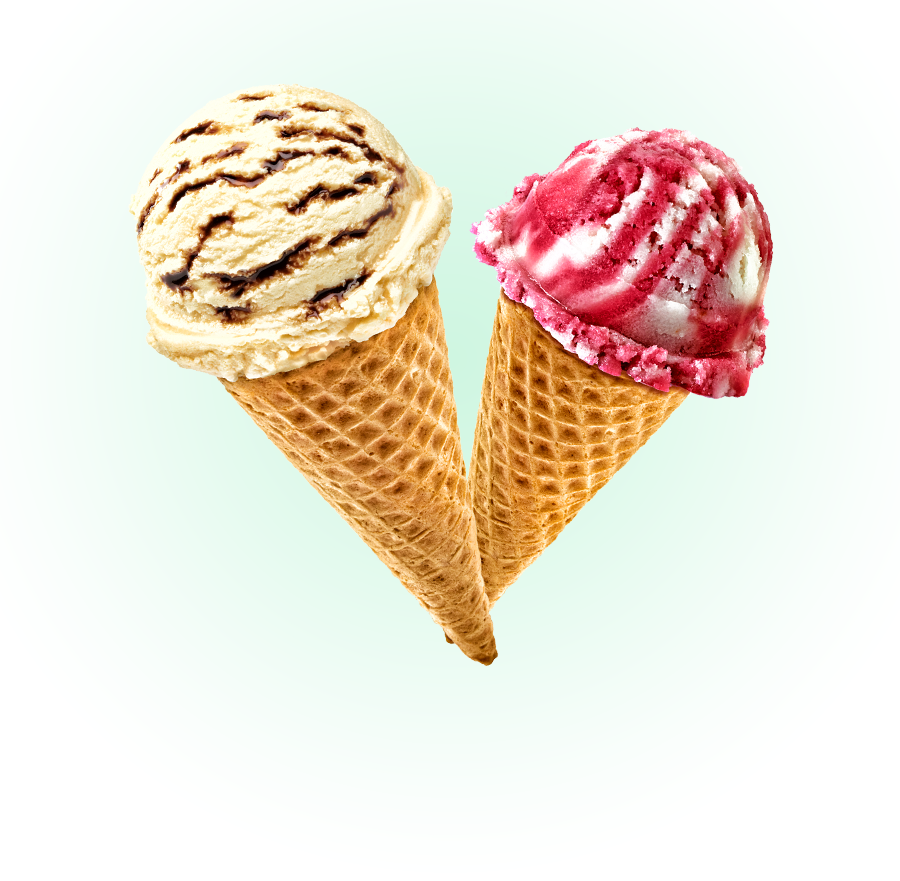
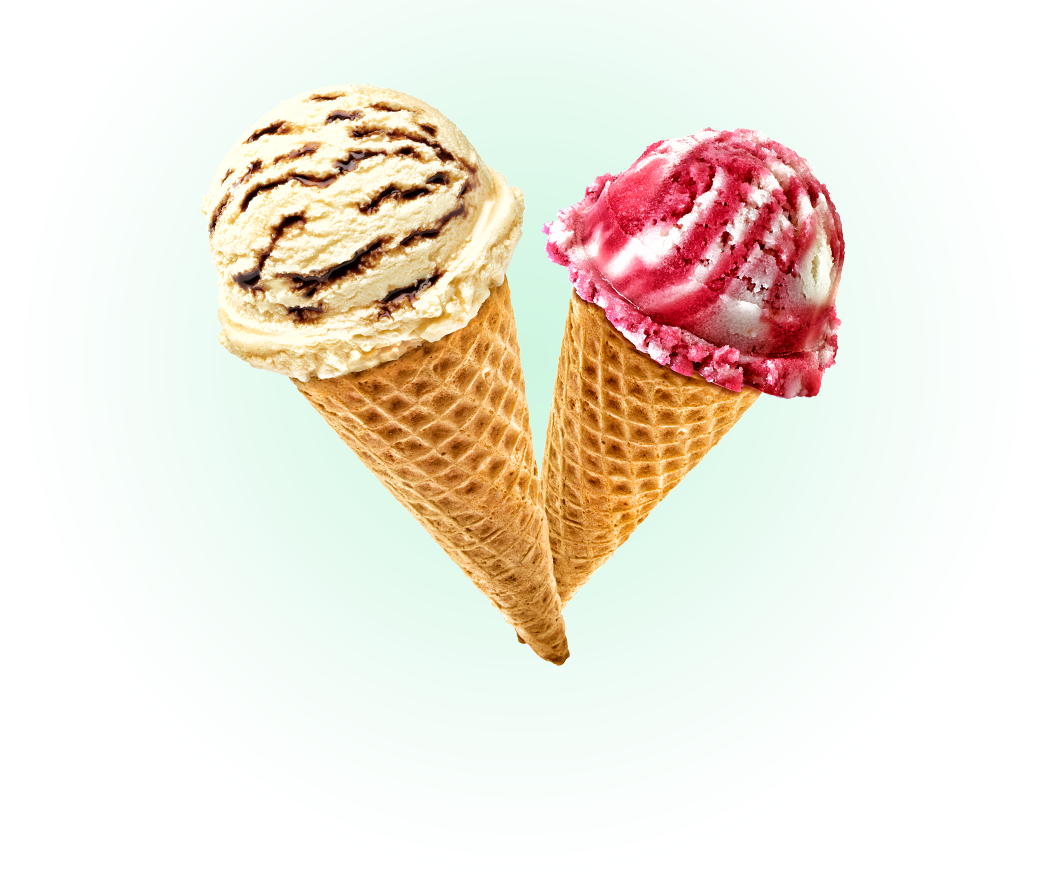
Сделал исправления и перешел на 1200

Changed region(s): [[0.1244, 0.0919, 0.8711, 0.7662]]

diff --git a/catalog.html b/catalog.html
@@ -94,7 +94,7 @@
       <section class="item-list">
         <div class="item">
           <div class="item-img-price"> <!-- Мороженое 1 -->
-            <img src="img/items/jam-citrus.png" width="200" height="200" alt="Мороженое">
+            <img src="img/items/jam-citrus.jpg" width="267" height="267" alt="Мороженое">
             <p><b>310</b> <img src="img/icons/rouble.svg" width="27" height="32" alt="р."> /кг</p>
           </div>
           <a href="#">Сливочное с апельсиновым джемом и цитрусовой стружкой</a>
@@ -102,7 +102,7 @@
         </div>
         <div class="item">
           <div class="item-img-price"> <!-- Мороженое 2 -->
-            <img src="img/items/coffee-chocolate.png" width="200" height="200" alt="Мороженое">
+            <img src="img/items/coffee-chocolate.jpg" width="267" height="267" alt="Мороженое">
             <p><b>310</b> <img src="img/icons/rouble.svg" width="27" height="32" alt="р."> /кг</p>
           </div>
           <a href="#">Сливочно-кофейное с кусочками шоколада</a>
@@ -110,7 +110,7 @@
         </div>
         <div class="item">
           <div class="item-img-price"> <!-- Мороженое 3 -->
-            <img src="img/items/strawberry-chocolate.png" width="200" height="200" alt="Мороженое">
+            <img src="img/items/strawberry-chocolate.jpg" width="267" height="267" alt="Мороженое">
             <p><b>310</b> <img src="img/icons/rouble.svg" width="27" height="32" alt="р."> /кг</p>
           </div>
           <a href="#">Сливочно-клубничное с присыпкой из белого шоколада</a>
@@ -118,7 +118,7 @@
         </div>
         <div class="item">
           <div class="item-img-price"> <!-- Мороженое 4 -->
-            <img src="img/items/cream-caramel.png" width="200" height="200" alt="Мороженое">
+            <img src="img/items/cream-caramel.jpg" width="267" height="267" alt="Мороженое">
             <p><b>310</b> <img src="img/icons/rouble.svg" width="27" height="32" alt="р."> /кг</p>
           </div>
           <a href="#">Сливочное крем-брюле с карамельной подливкой</a>
@@ -126,7 +126,7 @@
         </div>
         <div class="item">
           <div class="item-img-price"> <!-- Мороженое 5 -->
-            <img src="img/items/cowberry-jam.png" width="200" height="200" alt="Мороженое">
+            <img src="img/items/cowberry-jam.jpg" width="267" height="267" alt="Мороженое">
             <p><b>325</b> <img src="img/icons/rouble.svg" width="27" height="32" alt="р."> /кг</p>
           </div>
           <a href="#">Сливочное с брусничным джемом</a>
@@ -134,7 +134,7 @@
         </div>
         <div class="item">
           <div class="item-img-price"> <!-- Мороженое 6 -->
-            <img src="img/items/bilberry-berries.png" width="200" height="200" alt="Мороженое">
+            <img src="img/items/bilberry-berries.jpg" width="267" height="267" alt="Мороженое">
             <p><b>410</b> <img src="img/icons/rouble.svg" width="27" height="32" alt="р."> /кг</p>
           </div>
           <a href="#">Сливочно-черничное с цельными ягодами черники</a>
@@ -142,7 +142,7 @@
         </div>
         <div class="item">
           <div class="item-img-price"> <!-- Мороженое 7 -->
-            <img src="img/items/lemon-caramel.png" width="200" height="200" alt="Мороженое">
+            <img src="img/items/lemon-caramel.jpg" width="267" height="267" alt="Мороженое">
             <p><b>375</b> <img src="img/icons/rouble.svg" width="27" height="32" alt="р."> /кг</p>
           </div>
           <a href="#">Сливочно-лимонное с карамельной присыпкой</a>
@@ -150,7 +150,7 @@
         </div>
         <div class="item">
           <div class="item-img-price"> <!-- Мороженое 8 -->
-            <img src="img/items/chocolate-shaving.png" width="200" height="200" alt="Мороженое">
+            <img src="img/items/chocolate-shaving.jpg" width="267" height="267" alt="Мороженое">
             <p><b>320</b> <img src="img/icons/rouble.svg" width="27" height="32" alt="р."> /кг</p>
           </div>
           <a href="#">Сливочное с шоколадной стружкой</a>
@@ -158,7 +158,7 @@
         </div>
         <div class="item">
           <div class="item-img-price"> <!-- Мороженое 9 -->
-            <img src="img/items/chocolate-slices.png" width="200" height="200" alt="Мороженое">
+            <img src="img/items/chocolate-slices.jpg" width="267" height="267" alt="Мороженое">
             <p><b>440</b> <img src="img/icons/rouble.svg" width="27" height="32" alt="р."> /кг</p>
           </div>
           <a href="#">Сливочно-ванильное с кусочками шоколада</a>
@@ -166,7 +166,7 @@
         </div>
         <div class="item">
           <div class="item-img-price"> <!-- Мороженое 10 -->
-            <img src="img/items/menthol-syrup.png" width="200" height="200" alt="Мороженое">
+            <img src="img/items/menthol-syrup.jpg" width="267" height="267" alt="Мороженое">
             <p><b>435</b> <img src="img/icons/rouble.svg" width="27" height="32" alt="р."> /кг</p>
           </div>
           <a href="#">Сливочное с ментоловым сиропом</a>
@@ -174,7 +174,7 @@
         </div>
         <div class="item">
           <div class="item-img-price"> <!-- Мороженое 11 -->
-            <img src="img/items/dark-chocolate.png" width="200" height="200" alt="Мороженое">
+            <img src="img/items/dark-chocolate.jpg" width="267" height="267" alt="Мороженое">
             <p><b>355</b> <img src="img/icons/rouble.svg" width="27" height="32" alt="р."> /кг</p>
           </div>
           <a href="#">Сливочное с кусочками черного шоколада</a>
@@ -182,7 +182,7 @@
         </div>
         <div class="item">
           <div class="item-img-price"> <!-- Мороженое 12 -->
-            <img src="img/items/mint-syrup.png" width="200" height="200" alt="Мороженое">
+            <img src="img/items/mint-syrup.jpg" width="267" height="267" alt="Мороженое">
             <p><b>420</b> <img src="img/icons/rouble.svg" width="27" height="32" alt="р."> /кг</p>
           </div>
           <a href="#">Сливочное с мятным сиропом</a>

diff --git a/index.html b/index.html
@@ -56,17 +56,17 @@
           <div class="slider-inner">
             <div class="slider-slides">
               <div class="slide1">
-                <img src="img/sliders/ice-slider1.png" width="900" height="881" alt="Крем-брюле и пломбир с малиновым джемом">
+                <img src="img/sliders/ice-slider1.png" width="1045" height="881" alt="Крем-брюле и пломбир с малиновым джемом">
                 <p>Крем-брюле и пломбир с малиновым джемом</p>
                 <a class="btn" href="#">Давайте оба</a>
               </div>
               <div class="slide2">
-                <img src="img/sliders/ice-slider2.png" width="900" height="852" alt="Шоколадный пломбир и лимонный шербет">
+                <img src="img/sliders/ice-slider2.png" width="1065" height="859" alt="Шоколадный пломбир и лимонный шербет">
                 <p>Шоколадный пломбир и лимонный шербет</p>
                 <a class="btn" href="#">Давайте оба</a>
               </div>
               <div class="slide3">
-                <img src="img/sliders/ice-slider3.png" width="900" height="859" alt="Пломбир с помадкой и клубничный щербет">
+                <img src="img/sliders/ice-slider3.png" width="1079" height="854" alt="Пломбир с помадкой и клубничный щербет">
                 <p>Пломбир с помадкой и клубничный щербет</p>
                 <a class="btn" href="#">Давайте оба</a>
               </div>
@@ -86,7 +86,7 @@
         <section class="item popular"> <!-- Блок популярного мороженого -->
           <div class="item">
             <div class="item-img-price"> <!-- Хит продаж #1 -->
-              <img src="img/items/jam-citrus.png" width="200" height="200" alt="Мороженое">
+              <img src="img/items/jam-citrus.jpg" width="267" height="267" alt="Мороженое">
               <p><b>310</b> <img src="img/icons/rouble.svg" width="27" height="32" alt="р."> /кг</p>
             </div>
             <a href="#">Сливочное с апельсиновым джемом и цитрусовой стружкой</a>
@@ -94,7 +94,7 @@
           </div>
           <div class="item">
             <div class="item-img-price"> <!-- Хит продаж #2 -->
-              <img src="img/items/coffee-chocolate.png" width="200" height="200" alt="Мороженое">
+              <img src="img/items/coffee-chocolate.jpg" width="267" height="267" alt="Мороженое">
               <p><b>380</b> <img src="img/icons/rouble.svg" width="27" height="32" alt="р."> /кг</p>
             </div>
             <a href="#">Сливочно-кофейное с кусочками шоколада</a>
@@ -102,7 +102,7 @@
           </div>
           <div class="item">
             <div class="item-img-price"> <!-- Хит продаж #3 -->
-              <img src="img/items/strawberry-chocolate.png" width="200" height="200" alt="Мороженое">
+              <img src="img/items/strawberry-chocolate.jpg" width="267" height="267" alt="Мороженое">
               <p><b>355</b> <img src="img/icons/rouble.svg" width="27" height="32" alt="р."> /кг</p>
             </div>
             <a href="#">Сливочно-клубничное с присыпкой из белого шоколада</a>
@@ -110,7 +110,7 @@
           </div>
           <div class="item">
             <div class="item-img-price"> <!-- Хит продаж #4 -->
-              <img src="img/items/cream-caramel.png" width="200" height="200" alt="Мороженое">
+              <img src="img/items/cream-caramel.jpg" width="267" height="267" alt="Мороженое">
               <p><b>415</b> <img src="img/icons/rouble.svg" width="27" height="32" alt="р."> /кг</p>
             </div>
             <a href="#">Сливочное крем-брюле с карамельной подливкой</a>
